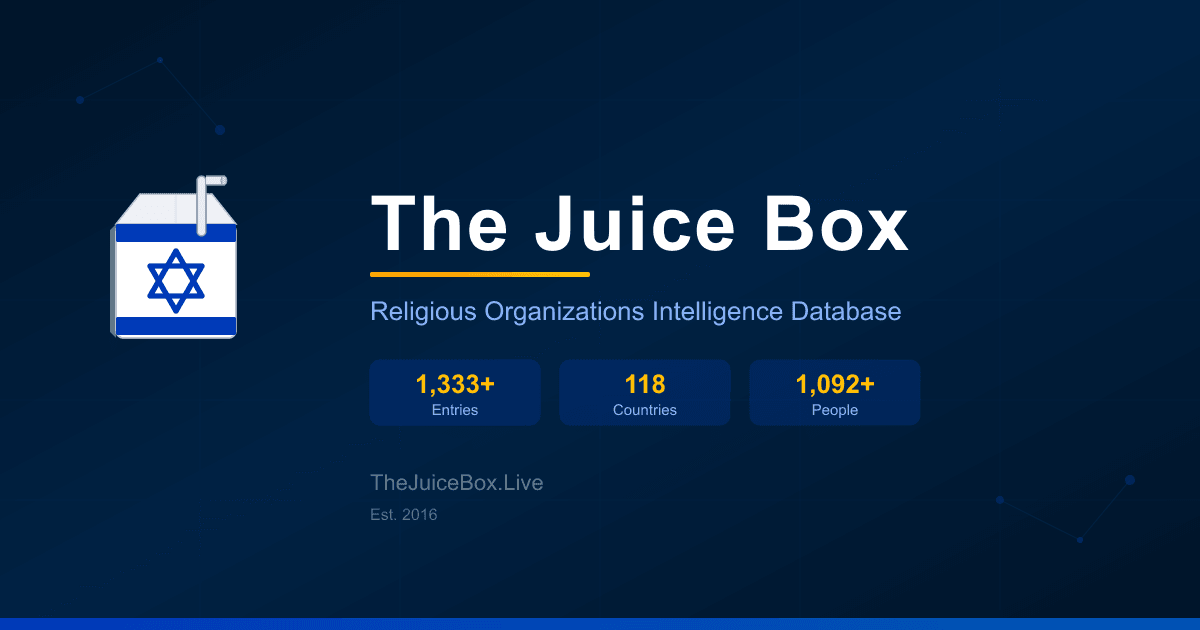
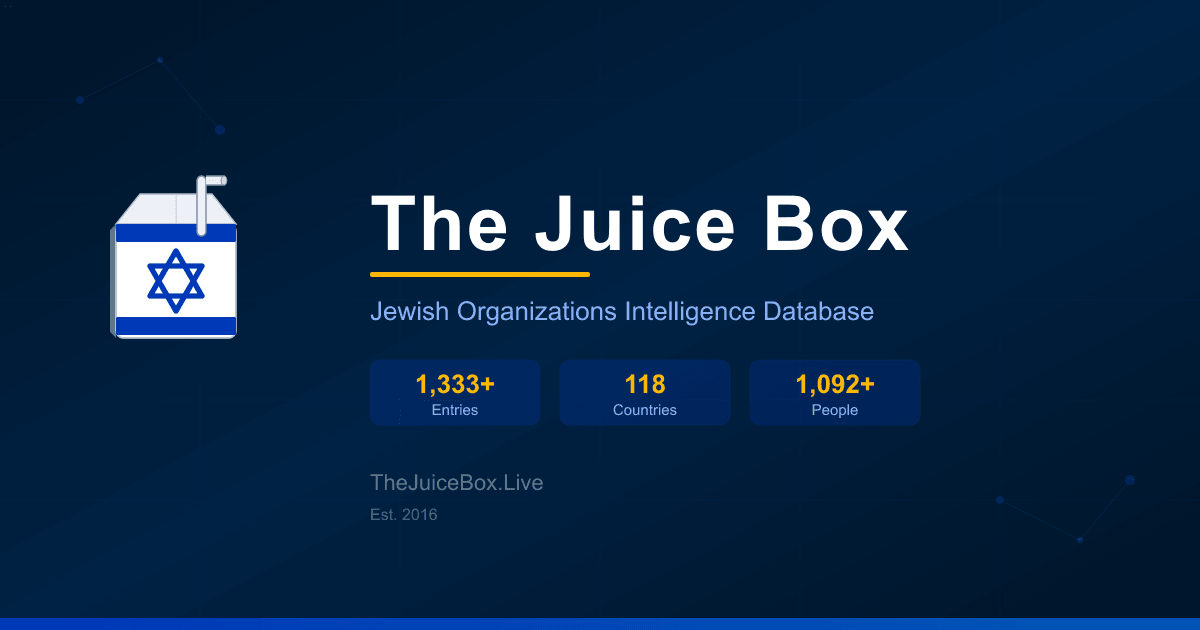
Replace 'Religious Organizations' with 'Jewish Organizations' across entire project (subtitle, meta tags, OG, footer, about page, all 19 HTML files, README, package.json). Regenerated OG image.

Changed region(s): [[0.3083, 0.4825, 0.7708, 0.5127], [0.6783, 0.6032, 0.7092, 0.6333], [0.37, 0.6032, 0.4008, 0.6333]]

diff --git a/public/index.html b/public/index.html
@@ -9,7 +9,7 @@
   <link rel="apple-touch-icon" sizes="180x180" href="/apple-touch-icon.png">
   <meta name="viewport" content="width=device-width, initial-scale=1.0">
   <meta name="author" content="Juice Project">
-  <meta name="description" content="Comprehensive directory of religious organizations worldwide - tracking structure, people, and connections since 2016.">
+  <meta name="description" content="Comprehensive directory of Jewish organizations worldwide - tracking structure, people, and connections since 2016.">
   <meta name="created" content="2016-03-14">
   <meta name="revised" content="2025-01-15">
   <meta property="og:type" content="website">
@@ -20,12 +20,12 @@
   <meta property="og:image:height" content="630">
   <meta name="twitter:card" content="summary_large_image">
   <meta name="twitter:image" content="https://thejuicebox.live/og-image.png">
-  <meta property="og:title" content="The Juice Box - Religious Organizations Directory">
-  <meta property="og:description" content="Comprehensive directory of religious organizations worldwide - tracking structure, people, and connections since 2016.">
+  <meta property="og:title" content="The Juice Box - Jewish Organizations Directory">
+  <meta property="og:description" content="Comprehensive directory of Jewish organizations worldwide - tracking structure, people, and connections since 2016.">
   <meta property="og:url" content="https://thejuicebox.live/">
-  <meta name="twitter:title" content="The Juice Box - Religious Organizations Directory">
-  <meta name="twitter:description" content="Comprehensive directory of religious organizations worldwide - tracking structure, people, and connections since 2016.">
-  <title>The Juice Box - Religious Organizations Directory</title>
+  <meta name="twitter:title" content="The Juice Box - Jewish Organizations Directory">
+  <meta name="twitter:description" content="Comprehensive directory of Jewish organizations worldwide - tracking structure, people, and connections since 2016.">
+  <title>The Juice Box - Jewish Organizations Directory</title>
   <style>
     body { font-family: Arial, sans-serif; margin: 0; padding: 0; color: #000; background: #fff; }
     nav { overflow-x: auto; -webkit-overflow-scrolling: touch; }
@@ -188,7 +188,7 @@
   <!-- HERO DASHBOARD -->
   <div class="hero panel" id="hero">
     <h1><svg xmlns="http://www.w3.org/2000/svg" viewBox="0 0 64 64" style="height:1.3em;vertical-align:middle;margin-right:14px;filter:drop-shadow(0 2px 8px rgba(0,40,140,0.4));"><defs><linearGradient id="jbL1" x1="0%" y1="0%" x2="100%" y2="100%"><stop offset="0%" stop-color="#fff"/><stop offset="100%" stop-color="#e6e9f0"/></linearGradient><linearGradient id="jbS1" x1="0%" y1="0%" x2="100%" y2="0%"><stop offset="0%" stop-color="#002d8f"/><stop offset="50%" stop-color="#0044cc"/><stop offset="100%" stop-color="#002d8f"/></linearGradient><linearGradient id="jbW1" x1="0%" y1="0%" x2="100%" y2="0%"><stop offset="0%" stop-color="#e0e4ee"/><stop offset="50%" stop-color="#fff"/><stop offset="100%" stop-color="#c8cdd8"/></linearGradient></defs><rect x="12" y="18" width="40" height="38" rx="2.5" fill="url(#jbL1)" stroke="#b0b8c8" stroke-width="0.6"/><path d="M12,18 L12,56 L10,54 L10,20 Z" fill="#c8cdd8" opacity="0.5"/><polygon points="12,18 20,8 44,8 52,18" fill="#eef0f6" stroke="#b0b8c8" stroke-width="0.5"/><line x1="32" y1="8" x2="32" y2="18" stroke="#c0c8d4" stroke-width="0.4" opacity="0.6"/><rect x="12" y="18" width="40" height="6" rx="0.5" fill="url(#jbS1)"/><rect x="12" y="49" width="40" height="6" rx="0.5" fill="url(#jbS1)"/><g transform="translate(32,37)"><polygon points="0,-10 8.66,5 -8.66,5" fill="none" stroke="#0038b8" stroke-width="1.8" stroke-linejoin="round"/><polygon points="0,10 8.66,-5 -8.66,-5" fill="none" stroke="#0038b8" stroke-width="1.8" stroke-linejoin="round"/></g><rect x="39" y="2" width="3" height="20" rx="1.5" fill="url(#jbW1)" stroke="#8090a8" stroke-width="0.5"/><path d="M42,5 L48,5 L48,2 L42,2" fill="url(#jbW1)" stroke="#8090a8" stroke-width="0.5"/><ellipse cx="48" cy="3.5" rx="1" ry="1.5" fill="#d0d4de" stroke="#8090a8" stroke-width="0.3"/><rect x="15" y="25" width="3" height="14" rx="1.5" fill="#fff" opacity="0.35"/><rect x="20" y="27" width="1.5" height="8" rx="0.75" fill="#fff" opacity="0.2"/></svg> Welcome to The Juice Box <svg xmlns="http://www.w3.org/2000/svg" viewBox="0 0 64 64" style="height:1.3em;vertical-align:middle;margin-left:14px;filter:drop-shadow(0 2px 8px rgba(0,40,140,0.4));"><defs><linearGradient id="jbL2" x1="0%" y1="0%" x2="100%" y2="100%"><stop offset="0%" stop-color="#fff"/><stop offset="100%" stop-color="#e6e9f0"/></linearGradient><linearGradient id="jbS2" x1="0%" y1="0%" x2="100%" y2="0%"><stop offset="0%" stop-color="#002d8f"/><stop offset="50%" stop-color="#0044cc"/><stop offset="100%" stop-color="#002d8f"/></linearGradient><linearGradient id="jbW2" x1="0%" y1="0%" x2="100%" y2="0%"><stop offset="0%" stop-color="#e0e4ee"/><stop offset="50%" stop-color="#fff"/><stop offset="100%" stop-color="#c8cdd8"/></linearGradient></defs><rect x="12" y="18" width="40" height="38" rx="2.5" fill="url(#jbL2)" stroke="#b0b8c8" stroke-width="0.6"/><path d="M12,18 L12,56 L10,54 L10,20 Z" fill="#c8cdd8" opacity="0.5"/><polygon points="12,18 20,8 44,8 52,18" fill="#eef0f6" stroke="#b0b8c8" stroke-width="0.5"/><line x1="32" y1="8" x2="32" y2="18" stroke="#c0c8d4" stroke-width="0.4" opacity="0.6"/><rect x="12" y="18" width="40" height="6" rx="0.5" fill="url(#jbS2)"/><rect x="12" y="49" width="40" height="6" rx="0.5" fill="url(#jbS2)"/><g transform="translate(32,37)"><polygon points="0,-10 8.66,5 -8.66,5" fill="none" stroke="#0038b8" stroke-width="1.8" stroke-linejoin="round"/><polygon points="0,10 8.66,-5 -8.66,-5" fill="none" stroke="#0038b8" stroke-width="1.8" stroke-linejoin="round"/></g><rect x="39" y="2" width="3" height="20" rx="1.5" fill="url(#jbW2)" stroke="#8090a8" stroke-width="0.5"/><path d="M42,5 L48,5 L48,2 L42,2" fill="url(#jbW2)" stroke="#8090a8" stroke-width="0.5"/><ellipse cx="48" cy="3.5" rx="1" ry="1.5" fill="#d0d4de" stroke="#8090a8" stroke-width="0.3"/><rect x="15" y="25" width="3" height="14" rx="1.5" fill="#fff" opacity="0.35"/><rect x="20" y="27" width="1.5" height="8" rx="0.75" fill="#fff" opacity="0.2"/></svg></h1>
-    <p class="subtitle">Comprehensive Religious Organizations Intelligence Database - Est. 2016</p>
+    <p class="subtitle">Comprehensive Jewish Organizations Intelligence Database - Est. 2016</p>
     <div class="hero-stats" id="hero-stats">
       <div class="hero-stat"><span class="num" id="stat-entries">...</span><span class="label">Organizations</span></div>
       <div class="hero-stat"><span class="num" id="stat-countries">...</span><span class="label">Countries</span></div>
@@ -268,7 +268,7 @@
     initPage('jewish', data => {
       cachedData = data;
     });
-    setSEO({ title: 'The Juice Box - Religious Organizations Intelligence Database', description: 'Explore 1,100+ religious organizations across 118 countries with interactive analytics, maps, and network graphs.' });
+    setSEO({ title: 'The Juice Box - Jewish Organizations Intelligence Database', description: 'Explore 1,100+ Jewish organizations across 118 countries with interactive analytics, maps, and network graphs.' });
 
     // Live user counter - organic growth from seed, persisted in localStorage, capped at 500M
     (function startUserCounter() {

diff --git a/scripts/generateFullData.js b/scripts/generateFullData.js
@@ -60,11 +60,11 @@ addEntry(us, { name: "B'nai B'rith International", type: "fraternal organization
 
 // --- Religious Bodies & Movements ---
 addEntry(us, { name: "Chabad-Lubavitch", type: "religious movement", description: "Global Hasidic movement with 5,000+ emissary families in 100+ countries, known for Jewish outreach.", website: "https://www.chabad.org/", individuals: [{ name: "Rabbi Menachem Mendel Schneerson", role: "Rebbe (1902-1994)", bio: "The seventh Lubavitcher Rebbe who transformed Chabad into a global movement." }, { name: "Rabbi Yehuda Krinsky", role: "Chairman", bio: "Chairman of Chabad-Lubavitch educational and social service arms." }] });
-addEntry(us, { name: "Orthodox Union (OU)", type: "religious organization", description: "Largest Orthodox Jewish umbrella organization in the US, also the world's largest kosher certification agency.", website: "https://www.ou.org/", individuals: [{ name: "Rabbi Moshe Hauer", role: "Executive Vice President", bio: "Executive VP of the Orthodox Union." }] });
-addEntry(us, { name: "United Synagogue of Conservative Judaism", type: "religious organization", description: "Association of 600 Conservative congregations across North America.", website: "https://www.uscj.org/", individuals: [] });
-addEntry(us, { name: "Union for Reform Judaism (URJ)", type: "religious organization", description: "Represents nearly 900 Reform congregations across North America.", website: "https://urj.org/", individuals: [{ name: "Rabbi Rick Jacobs", role: "President", bio: "President of the Union for Reform Judaism." }] });
-addEntry(us, { name: "Reconstructing Judaism", type: "religious organization", description: "Central organization of the Reconstructionist movement.", website: "https://www.reconstructingjudaism.org/", individuals: [{ name: "Rabbi Deborah Waxman", role: "President", bio: "First woman rabbi and first lesbian to lead a Jewish congregational union." }] });
-addEntry(us, { name: "Agudath Israel of America", type: "religious organization", description: "Haredi Orthodox Jewish advocacy organization founded in 1922.", website: "https://agudah.org/", individuals: [{ name: "Rabbi Chaim Dovid Zwiebel", role: "Executive Vice President", bio: "Executive VP of Agudath Israel." }] });
+addEntry(us, { name: "Orthodox Union (OU)", type: "Jewish organization", description: "Largest Orthodox Jewish umbrella organization in the US, also the world's largest kosher certification agency.", website: "https://www.ou.org/", individuals: [{ name: "Rabbi Moshe Hauer", role: "Executive Vice President", bio: "Executive VP of the Orthodox Union." }] });
+addEntry(us, { name: "United Synagogue of Conservative Judaism", type: "Jewish organization", description: "Association of 600 Conservative congregations across North America.", website: "https://www.uscj.org/", individuals: [] });
+addEntry(us, { name: "Union for Reform Judaism (URJ)", type: "Jewish organization", description: "Represents nearly 900 Reform congregations across North America.", website: "https://urj.org/", individuals: [{ name: "Rabbi Rick Jacobs", role: "President", bio: "President of the Union for Reform Judaism." }] });
+addEntry(us, { name: "Reconstructing Judaism", type: "Jewish organization", description: "Central organization of the Reconstructionist movement.", website: "https://www.reconstructingjudaism.org/", individuals: [{ name: "Rabbi Deborah Waxman", role: "President", bio: "First woman rabbi and first lesbian to lead a Jewish congregational union." }] });
+addEntry(us, { name: "Agudath Israel of America", type: "Jewish organization", description: "Haredi Orthodox Jewish advocacy organization founded in 1922.", website: "https://agudah.org/", individuals: [{ name: "Rabbi Chaim Dovid Zwiebel", role: "Executive Vice President", bio: "Executive VP of Agudath Israel." }] });
 addEntry(us, { name: "Rabbinical Council of America (RCA)", type: "rabbinical association", description: "The largest organization of Orthodox rabbis in the United States with over 1,000 members.", website: "https://www.rabbis.org/", individuals: [] });
 addEntry(us, { name: "Central Conference of American Rabbis (CCAR)", type: "rabbinical association", description: "The oldest and largest organization of rabbis in North America, associated with the Reform movement.", website: "https://www.ccarnet.org/", individuals: [] });
 addEntry(us, { name: "Rabbinical Assembly", type: "rabbinical association", description: "International association of Conservative/Masorti rabbis.", website: "https://www.rabbinicalassembly.org/", individuals: [] });

diff --git a/public/about.html b/public/about.html
@@ -19,10 +19,10 @@
   <meta name="twitter:card" content="summary_large_image">
   <meta name="twitter:image" content="https://thejuicebox.live/og-image.png">
   <meta property="og:title" content="About - The Juice Box">
-  <meta property="og:description" content="Comprehensive directory of religious organizations worldwide - tracking structure, people, and connections since 2016.">
+  <meta property="og:description" content="Comprehensive directory of Jewish organizations worldwide - tracking structure, people, and connections since 2016.">
   <meta property="og:url" content="https://thejuicebox.live/about.html">
   <meta name="twitter:title" content="About - The Juice Box">
-  <meta name="twitter:description" content="Comprehensive directory of religious organizations worldwide - tracking structure, people, and connections since 2016.">
+  <meta name="twitter:description" content="Comprehensive directory of Jewish organizations worldwide - tracking structure, people, and connections since 2016.">
   <title>About - The Juice Box</title>
   <style>
     body { font-family: Arial, sans-serif; margin: 0; padding: 0; color: #000; background: #fff; }
@@ -179,7 +179,7 @@
     <div class="about-hero">
       <div class="hero-icon"><i class="fas fa-box-open"></i></div>
       <h1>About The Juice Box</h1>
-      <p class="subtitle">The most comprehensive open-source intelligence database on religious organizations worldwide</p>
+      <p class="subtitle">The most comprehensive open-source intelligence database on Jewish organizations worldwide</p>
     </div>
 
     <!-- Key Stats -->
@@ -194,7 +194,7 @@
     <!-- Mission -->
     <div class="about-section">
       <h2><i class="fas fa-bullseye"></i> Mission</h2>
-      <p>The Juice Box is a research and intelligence platform dedicated to cataloging, mapping, and analyzing the global landscape of religious organizations. Our goal is to provide a transparent, searchable resource that connects the dots between organizations, the people who lead them, and their worldwide operations.</p>
+      <p>The Juice Box is a research and intelligence platform dedicated to cataloging, mapping, and analyzing the global landscape of Jewish organizations. Our goal is to provide a transparent, searchable resource that connects the dots between organizations, the people who lead them, and their worldwide operations.</p>
       <p>By aggregating publicly available information and organizing it into a structured, interconnected database, we aim to make religious institutional networks more accessible to researchers, journalists, academics, and the general public.</p>
     </div>
 
@@ -344,7 +344,7 @@
     <!-- Disclaimer -->
     <div class="disclaimer">
       <strong><i class="fas fa-exclamation-triangle"></i> Disclaimer</strong><br>
-      The Juice Box is a research tool providing publicly available information about religious organizations. Inclusion in this database does not imply any wrongdoing, illegality, or negative judgment about any organization or individual. All data is sourced from public records and is presented for informational and research purposes only. If you believe any information is inaccurate, please contact us for correction.
+      The Juice Box is a research tool providing publicly available information about Jewish organizations. Inclusion in this database does not imply any wrongdoing, illegality, or negative judgment about any organization or individual. All data is sourced from public records and is presented for informational and research purposes only. If you believe any information is inaccurate, please contact us for correction.
     </div>
   </div>
 

diff --git a/scripts/addConnections20.js b/scripts/addConnections20.js
@@ -138,7 +138,7 @@ const newEntries = [
   { country: 'United States', entry: { id: 'zionist-organization-america', name: 'Zionist Organization of America (ZOA)', type: 'Advocacy Group', category: 'Advocacy & Public Affairs', founded: 1897, description: 'The oldest pro-Israel organization in the United States, founded in response to the First Zionist Congress. ZOA has been instrumental in advocating for strong US-Israel relations, combating antisemitism on college campuses, and supporting Israeli sovereignty. Past presidents include Supreme Court Justice Louis Brandeis.', 
       individuals: [{ id: slug('Morton Klein'), name: 'Morton Klein', role: 'National President', bio: 'Holocaust survivor\'s son who has led ZOA since 1993, making it one of the most prominent pro-Israel advocacy organizations in America.' }],
       connections: [{ name: 'AIPAC', type: 'partnership', description: 'Works alongside AIPAC on pro-Israel advocacy in Washington.' }] }},
-  { country: 'United States', entry: { id: 'orthodox-union', name: 'Orthodox Union (OU)', type: 'Religious Organization', category: 'Religion & Synagogues', founded: 1898, description: 'The largest Orthodox Jewish umbrella organization in the United States, serving nearly 1,000 congregations. Best known for its OU kosher certification, one of the world\'s most recognized kosher symbols, certifying over 1 million products. Also runs NCSY youth programs and advocacy initiatives.', 
+  { country: 'United States', entry: { id: 'orthodox-union', name: 'Orthodox Union (OU)', type: 'Jewish Organization', category: 'Religion & Synagogues', founded: 1898, description: 'The largest Orthodox Jewish umbrella organization in the United States, serving nearly 1,000 congregations. Best known for its OU kosher certification, one of the world\'s most recognized kosher symbols, certifying over 1 million products. Also runs NCSY youth programs and advocacy initiatives.', 
       individuals: [{ id: slug('Mitchel Aeder'), name: 'Mitchel Aeder', role: 'President', bio: 'President of the Orthodox Union, overseeing the organization\'s religious, educational, and public policy programs.' }],
       connections: [{ name: 'Young Israel', type: 'partnership', description: 'Partners with National Council of Young Israel on Orthodox communal matters.' }] }},
   { country: 'United States', entry: { id: 'reconstructionist-movement', name: 'Reconstructing Judaism', type: 'Religious Movement', category: 'Religion & Synagogues', founded: 1922, description: 'The central organization of Reconstructionist Judaism, founded on the philosophy of Rabbi Mordecai Kaplan. Operates the Reconstructionist Rabbinical College and supports approximately 100 congregations. Emphasizes Judaism as an evolving civilization rather than solely a religion, embracing progressive social values.', 

diff --git a/public/discover.html b/public/discover.html
@@ -19,10 +19,10 @@
   <meta name="twitter:card" content="summary_large_image">
   <meta name="twitter:image" content="https://thejuicebox.live/og-image.png">
   <meta property="og:title" content="Discover - Random Entry">
-  <meta property="og:description" content="Comprehensive directory of religious organizations worldwide - tracking structure, people, and connections since 2016.">
+  <meta property="og:description" content="Comprehensive directory of Jewish organizations worldwide - tracking structure, people, and connections since 2016.">
   <meta property="og:url" content="https://thejuicebox.live/discover.html">
   <meta name="twitter:title" content="Discover - Random Entry">
-  <meta name="twitter:description" content="Comprehensive directory of religious organizations worldwide - tracking structure, people, and connections since 2016.">
+  <meta name="twitter:description" content="Comprehensive directory of Jewish organizations worldwide - tracking structure, people, and connections since 2016.">
   <title>Discover - Random Entry</title>
   <style>
     body { font-family: Arial, sans-serif; margin: 20px; color: #000; background: #fff; }
@@ -156,7 +156,7 @@ nav { overflow-x: auto; -webkit-overflow-scrolling: touch; }
   <script src="app.js"></script>
   <script>
     initPage('jewish');
-    setSEO({ title: 'Discover - Juice Project', description: 'Explore random religious organizations and discover connections you did not know existed.' });
+    setSEO({ title: 'Discover - Juice Project', description: 'Explore random Jewish organizations and discover connections you did not know existed.' });
 
     function loadRandom() {
       const card = document.getElementById('discover-card');

diff --git a/public/people.html b/public/people.html
@@ -19,10 +19,10 @@
   <meta name="twitter:card" content="summary_large_image">
   <meta name="twitter:image" content="https://thejuicebox.live/og-image.png">
   <meta property="og:title" content="People Directory">
-  <meta property="og:description" content="Comprehensive directory of religious organizations worldwide - tracking structure, people, and connections since 2016.">
+  <meta property="og:description" content="Comprehensive directory of Jewish organizations worldwide - tracking structure, people, and connections since 2016.">
   <meta property="og:url" content="https://thejuicebox.live/people.html">
   <meta name="twitter:title" content="People Directory">
-  <meta name="twitter:description" content="Comprehensive directory of religious organizations worldwide - tracking structure, people, and connections since 2016.">
+  <meta name="twitter:description" content="Comprehensive directory of Jewish organizations worldwide - tracking structure, people, and connections since 2016.">
   <title>People Directory</title>
   <style>
     body { font-family: Arial, sans-serif; margin: 20px; color: #000; background: #fff; }
@@ -198,7 +198,7 @@ nav { overflow-x: auto; -webkit-overflow-scrolling: touch; }
   <script src="app.js"></script>
   <script>
     initPage('jewish');
-    setSEO({ title: 'People Directory - Juice Project', description: 'Browse 820+ individuals connected to religious organizations worldwide.' });
+    setSEO({ title: 'People Directory - Juice Project', description: 'Browse 820+ individuals connected to Jewish organizations worldwide.' });
 
     let allPeople = [];
     let activeFilter = { text: '', country: '', category: '', letter: '' };

diff --git a/public/map.html b/public/map.html
@@ -19,10 +19,10 @@
   <meta name="twitter:card" content="summary_large_image">
   <meta name="twitter:image" content="https://thejuicebox.live/og-image.png">
   <meta property="og:title" content="World Map">
-  <meta property="og:description" content="Comprehensive directory of religious organizations worldwide - tracking structure, people, and connections since 2016.">
+  <meta property="og:description" content="Comprehensive directory of Jewish organizations worldwide - tracking structure, people, and connections since 2016.">
   <meta property="og:url" content="https://thejuicebox.live/map.html">
   <meta name="twitter:title" content="World Map">
-  <meta name="twitter:description" content="Comprehensive directory of religious organizations worldwide - tracking structure, people, and connections since 2016.">
+  <meta name="twitter:description" content="Comprehensive directory of Jewish organizations worldwide - tracking structure, people, and connections since 2016.">
   <title>World Map</title>
   <link rel="stylesheet" href="https://unpkg.com/leaflet@1.9.4/dist/leaflet.css" />
   <style>
@@ -159,7 +159,7 @@ nav { overflow-x: auto; -webkit-overflow-scrolling: touch; }
   <script src="https://unpkg.com/leaflet@1.9.4/dist/leaflet.js"></script>
   <script>
     initPage('jewish');
-    setSEO({ title: 'World Map - Juice Project', description: 'Geographic map showing the distribution of religious organizations across 86 countries.' });
+    setSEO({ title: 'World Map - Juice Project', description: 'Geographic map showing the distribution of Jewish organizations across 86 countries.' });
 
     // Country coordinates (lat, lng)
     const countryCoords = {

diff --git a/public/search.html b/public/search.html
@@ -19,10 +19,10 @@
   <meta name="twitter:card" content="summary_large_image">
   <meta name="twitter:image" content="https://thejuicebox.live/og-image.png">
   <meta property="og:title" content="Search">
-  <meta property="og:description" content="Comprehensive directory of religious organizations worldwide - tracking structure, people, and connections since 2016.">
+  <meta property="og:description" content="Comprehensive directory of Jewish organizations worldwide - tracking structure, people, and connections since 2016.">
   <meta property="og:url" content="https://thejuicebox.live/search.html">
   <meta name="twitter:title" content="Search">
-  <meta name="twitter:description" content="Comprehensive directory of religious organizations worldwide - tracking structure, people, and connections since 2016.">
+  <meta name="twitter:description" content="Comprehensive directory of Jewish organizations worldwide - tracking structure, people, and connections since 2016.">
   <title>Search</title>
   <style>
     body { font-family: Arial, sans-serif; margin: 20px; color: #000; background: #fff; }
@@ -171,7 +171,7 @@ nav { overflow-x: auto; -webkit-overflow-scrolling: touch; }
   <script src="app.js"></script>
   <script>
     initPage('jewish');
-    setSEO({ title: 'Search - Juice Project', description: 'Search across organizations, people, and connections in the Juice religious organizations database.' });
+    setSEO({ title: 'Search - Juice Project', description: 'Search across organizations, people, and connections in the Juice Jewish organizations database.' });
 
     let searchTimeout = null;
     const input = document.getElementById('search-input');

diff --git a/public/timeline.html b/public/timeline.html
@@ -19,10 +19,10 @@
   <meta name="twitter:card" content="summary_large_image">
   <meta name="twitter:image" content="https://thejuicebox.live/og-image.png">
   <meta property="og:title" content="Timeline">
-  <meta property="og:description" content="Comprehensive directory of religious organizations worldwide - tracking structure, people, and connections since 2016.">
+  <meta property="og:description" content="Comprehensive directory of Jewish organizations worldwide - tracking structure, people, and connections since 2016.">
   <meta property="og:url" content="https://thejuicebox.live/timeline.html">
   <meta name="twitter:title" content="Timeline">
-  <meta name="twitter:description" content="Comprehensive directory of religious organizations worldwide - tracking structure, people, and connections since 2016.">
+  <meta name="twitter:description" content="Comprehensive directory of Jewish organizations worldwide - tracking structure, people, and connections since 2016.">
   <title>Timeline</title>
   <style>
     body { font-family: Arial, sans-serif; margin: 0; padding: 0; color: #000; background: #fff; }
@@ -197,7 +197,7 @@ nav { overflow-x: auto; -webkit-overflow-scrolling: touch; }
   <script src="app.js"></script>
   <script>
     initPage('jewish');
-    setSEO({ title: 'Timeline - Juice Project', description: 'Interactive timeline showing the founding dates of religious organizations from ancient times to present.' });
+    setSEO({ title: 'Timeline - Juice Project', description: 'Interactive timeline showing the founding dates of Jewish organizations from ancient times to present.' });
     let allItems = [];
 
     // View tabs

diff --git a/public/pathfinder.html b/public/pathfinder.html
@@ -19,10 +19,10 @@
   <meta name="twitter:card" content="summary_large_image">
   <meta name="twitter:image" content="https://thejuicebox.live/og-image.png">
   <meta property="og:title" content="Pathfinder - Degrees of Separation">
-  <meta property="og:description" content="Comprehensive directory of religious organizations worldwide - tracking structure, people, and connections since 2016.">
+  <meta property="og:description" content="Comprehensive directory of Jewish organizations worldwide - tracking structure, people, and connections since 2016.">
   <meta property="og:url" content="https://thejuicebox.live/pathfinder.html">
   <meta name="twitter:title" content="Pathfinder - Degrees of Separation">
-  <meta name="twitter:description" content="Comprehensive directory of religious organizations worldwide - tracking structure, people, and connections since 2016.">
+  <meta name="twitter:description" content="Comprehensive directory of Jewish organizations worldwide - tracking structure, people, and connections since 2016.">
   <title>Pathfinder - Degrees of Separation</title>
   <style>
     body { font-family: Arial, sans-serif; margin: 0; padding: 0; color: #000; background: #fff; }
@@ -359,7 +359,7 @@
 
     // Init
     if (typeof initPage === 'function') initPage('jewish');
-    setSEO({ title: 'Pathfinder - Juice Project', description: 'Find the degrees of separation between any two religious organizations.' });
+    setSEO({ title: 'Pathfinder - Juice Project', description: 'Find the degrees of separation between any two Jewish organizations.' });
     loadEntries();
   </script>
 </body>

diff --git a/scripts/expandData25.js b/scripts/expandData25.js
@@ -321,7 +321,7 @@ for (const e of tr) add('Turkey', e);
 // ============================================================
 
 const kr = [
-  { name: 'Chabad of South Korea', id: slug('Chabad of South Korea'), type: 'religious organization', category: 'Religion & Synagogues', description: 'Chabad of South Korea operates the primary Jewish community center in Seoul, serving the approximately 1,000 Jews living in South Korea. Established to serve Jewish business people, diplomats, military personnel, and English teachers, it operates a synagogue, kosher kitchen, and community programs. It also conducts outreach to the broader Korean population interested in Jewish studies.', website: '', founded: 2008, individuals: [], connections: [{ name: 'Chabad', type: 'parent organization', description: 'Part of the global Chabad-Lubavitch movement.' }] },
+  { name: 'Chabad of South Korea', id: slug('Chabad of South Korea'), type: 'Jewish organization', category: 'Religion & Synagogues', description: 'Chabad of South Korea operates the primary Jewish community center in Seoul, serving the approximately 1,000 Jews living in South Korea. Established to serve Jewish business people, diplomats, military personnel, and English teachers, it operates a synagogue, kosher kitchen, and community programs. It also conducts outreach to the broader Korean population interested in Jewish studies.', website: '', founded: 2008, individuals: [], connections: [{ name: 'Chabad', type: 'parent organization', description: 'Part of the global Chabad-Lubavitch movement.' }] },
 ];
 
 for (const e of kr) add('South Korea', e);

diff --git a/public/app.js b/public/app.js
@@ -307,8 +307,8 @@ function initPage(religion, callback) {
 // ===== SEO & OPEN GRAPH =====
 function setSEO(opts = {}) {
   const defaults = {
-    title: 'Juice Project - Religious Organizations Database',
-    description: 'Comprehensive database cataloging 800+ religious organizations across 86 countries, with people, connections, and analytics.',
+    title: 'Juice Project - Jewish Organizations Database',
+    description: 'Comprehensive database cataloging 800+ Jewish organizations across 86 countries, with people, connections, and analytics.',
     type: 'website',
     url: window.location.href
   };
@@ -432,7 +432,7 @@ function addFooter() {
     <div style="max-width:1200px;margin:0 auto;padding:35px 30px 20px;display:grid;grid-template-columns:repeat(auto-fit,minmax(200px,1fr));gap:30px;">
       <div>
         <h4 style="margin:0 0 12px;color:#0038b8;font-size:1.1em;"><i class="fa-solid fa-database"></i> The Juice Box</h4>
-        <p style="margin:0 0 8px;line-height:1.6;font-size:0.92em;">Comprehensive Religious Organizations Intelligence Database. Tracking structure, people, and connections since 2016.</p>
+        <p style="margin:0 0 8px;line-height:1.6;font-size:0.92em;">Comprehensive Jewish Organizations Intelligence Database. Tracking structure, people, and connections since 2016.</p>
         <p style="margin:0;font-size:0.85em;color:#999;">v4.3 | Est. 2016</p>
       </div>
       <div>
